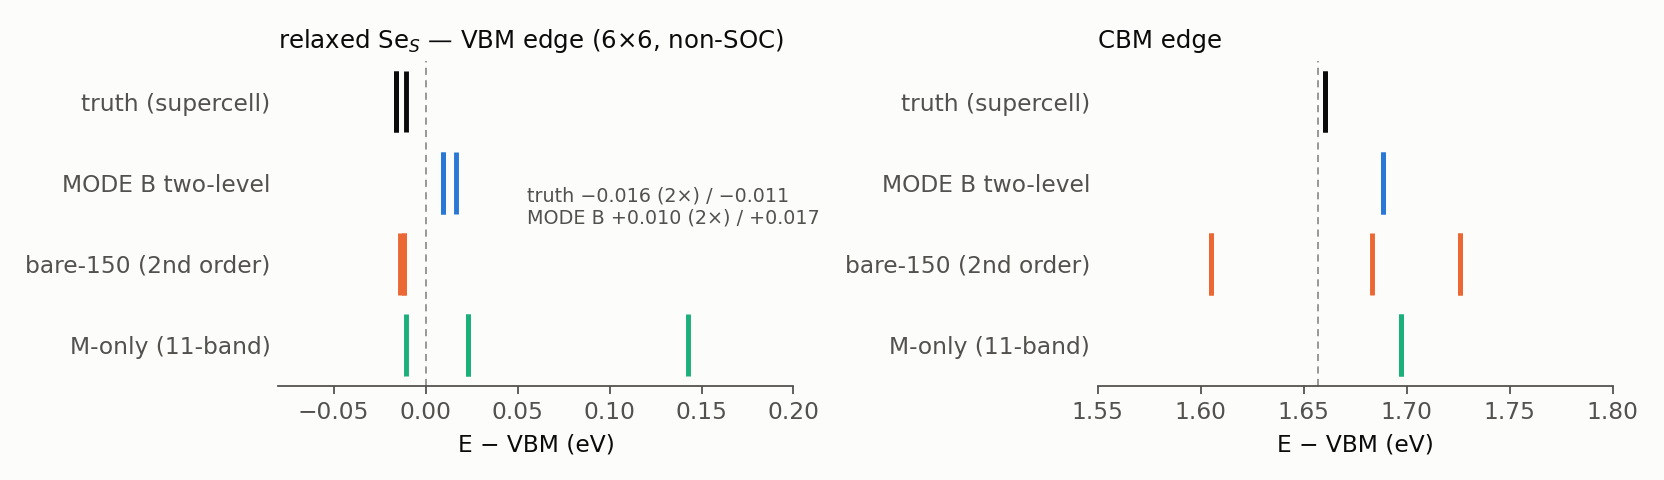
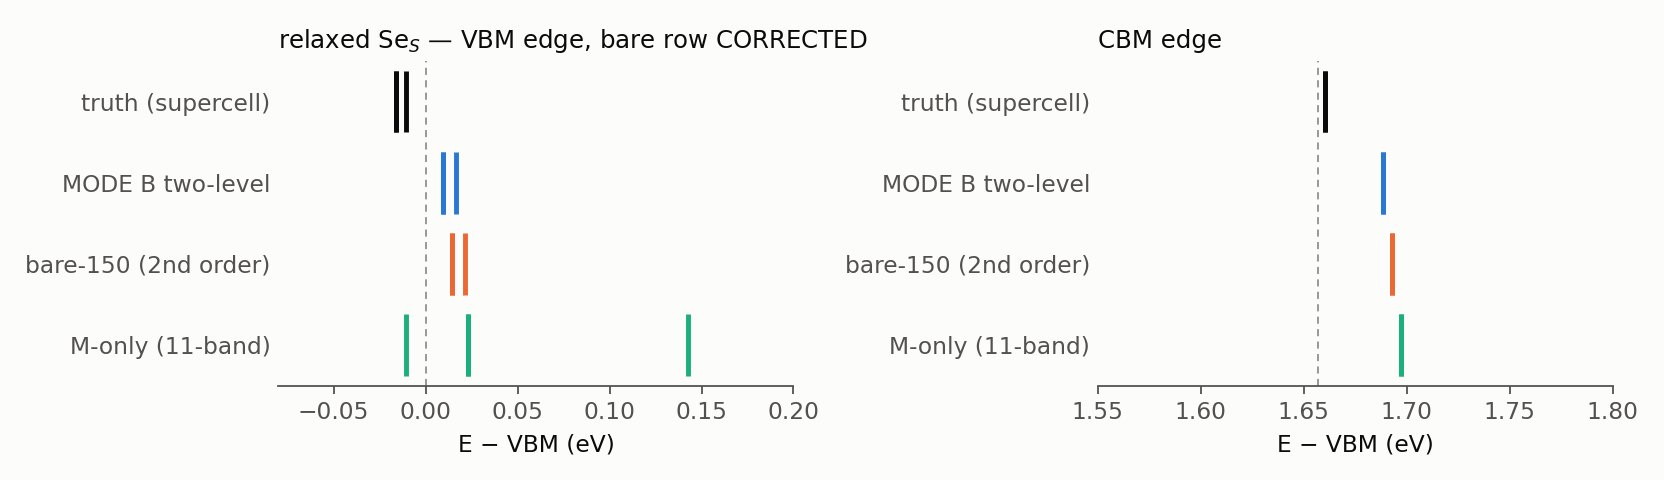
Erratum + omega-resolved (MODE C) results
- ERRATUM: all bare-150 rows were 36x inflated (missing 1/N_k in gate
  scripts); corrected in tables + all four level figures
- MODE B 6-rung ladder under-converges the collective rest mode at
  w0+0.28 eV (implied by the old rho=1.215); window numbers survive
  (<=22 meV) but the O_S ghost-survival claim is retracted -- it was
  this artifact; deflated-ladder page gains a certificate caveat
- NEW section 7: MODE C omega-resolved block-Lanczos (unit-tested at
  6e-15): O_S mid-gap clean at -50 meV uniform (ghost dissolved);
  V_S doublet brackets truth, 29 meV splitting = matrix-element physics
- adds vs_omega66/os_omega66 figures; edt_twolevel.f90 operator unit test

diff --git a/docs/pages/twolevel-results.html b/docs/pages/twolevel-results.html
@@ -6,10 +6,10 @@
 <script id="MathJax-script" async src="https://cdn.jsdelivr.net/npm/mathjax@3/es5/tex-mml-chtml.js"></script>
 </head><body>
 <nav class="topnav"><div class="inner"><span class="brand">Sternheimer&nbsp;EDI</span><a href="../index.html">Home</a><a href="../pages/theory.html">Theory &amp; Method</a><a href="../pages/sternheimer-ladder.html">Rest-space ladder</a><a href="../pages/deflated-ladder.html">Deflated ladder</a><a href="../pages/twolevel-results.html" style="color:#fff;text-decoration:underline">Two-level results</a><a href="../pages/koster-slater.html">Koster&ndash;Slater</a><a href="../pages/feshbach-implementation.html">Feshbach impl.</a><a href="../pages/plan.html">Implementation Plan</a><a href="../pages/results.html">Results</a><a href="../pages/note-kprime-normalization.html">Note: k&prime;-norm</a></div></nav>
-<header><div class="header-inner"><h1>Two-level dressing: results (Sdisp probe &amp; relaxed V$_S$, 6$\times$6)</h1><p class="subtitle">Level-by-level truth gates for the two-level (deflated) dressing on the 6$\times$6 grid: the Sdisp probe lands the CBM doublet at 2 meV, and the relaxed V$_S$ gap $e$-doublet — historically $+217$ meV (truncated) / $+41$ meV (best $\chi$) — comes out at $+10/+39$ meV with no augmentation and no hyperparameters.</p><div class="meta"><span class="pill">Results</span><span class="pill">7 sections</span><span class="pill">MathJax v3</span><span class="pill">Generated 2026-05-28</span></div></div></header>
+<header><div class="header-inner"><h1>Two-level dressing: results (Sdisp probe &amp; relaxed V$_S$, 6$\times$6)</h1><p class="subtitle">Level-by-level truth gates for the two-level (deflated) dressing on the 6$\times$6 grid: the Sdisp probe lands the CBM doublet at 2 meV, and the relaxed V$_S$ gap $e$-doublet — historically $+217$ meV (truncated) / $+41$ meV (best $\chi$) — comes out at $+10/+39$ meV with no augmentation and no hyperparameters.</p><div class="meta"><span class="pill">Results</span><span class="pill">8 sections</span><span class="pill">MathJax v3</span><span class="pill">Generated 2026-05-28</span></div></div></header>
 <main>
-<section id="contents"><h2>Contents</h2><div class="toc"><a href="#sec-1">1. What is compared</a><a href="#sec-2">2. S-displacement probe (weak, sharp perturbation)</a><a href="#sec-3">3. Relaxed V$_S$ (strong defect — the original nemesis)</a><a href="#sec-4">4. Engineering numbers</a><a href="#sec-5">5. Head-to-head: the previous production method ($\chi$ augmentation) on the same system</a><a href="#sec-6">6. O$_S$ and Se$_S$: where the tail helps — and where it cannot</a><a href="#sec-7">7. Residuals and next levers</a></div></section>
-
+<section id="contents"><h2>Contents</h2><div class="toc"><a href="#sec-1">1. What is compared</a><a href="#sec-2">2. S-displacement probe (weak, sharp perturbation)</a><a href="#sec-3">3. Relaxed V$_S$ (strong defect — the original nemesis)</a><a href="#sec-4">4. Engineering numbers</a><a href="#sec-5">5. Head-to-head: the previous production method ($\chi$ augmentation) on the same system</a><a href="#sec-6">6. O$_S$ and Se$_S$ under MODE B — and what the O$_S$ "ghost" really was</a><a href="#sec-7">7. $\omega$-resolved rest (MODE C): one Lanczos chain, every frequency</a><a href="#sec-8">8. Residuals and next levers</a></div></section>
+<blockquote><p><strong>Erratum &amp; major update (2026-08-06).</strong> Three corrections against the first version of this page. <strong>(i)</strong> Every "bare-150 (2nd order)" row was inflated by a factor $N_k=36$ (a missing $1/N_k$ in the gate script, not in any production code); all bare rows and figures below are corrected. <strong>(ii)</strong> The MODE B 6-rung ladder was found to under-converge one <em>collective rest mode</em> that the plain-ladder divergence ($\rho=1.215$) had always implied: a dressed rest state sits only $0.28$ eV from $\omega_0$, and the deflated ladder's measured 0.06–0.13 contraction is a source-global number that hides a $\rho\to 1$ channel. Its gap-window level errors stay $\le 22$ meV for V$_S$/Sdisp/Se$_S$ (those headline numbers stand), but MODE B's $\Sigma$ is <strong>not</strong> an exact rest inversion, and for O$_S$ the deficiency is qualitative — see (iii). <strong>(iii)</strong> Section 6's original claim that "the O-2p ghost survives static dressing" was <strong>an artifact of (ii)</strong>: a correctly computed static $\Sigma(\omega_0)$ (and even the corrected bare row) already relocates the ghost. The $\chi$-augmentation is an <em>alternative</em>, not a necessity, for O$_S$. The $\omega$-resolved results (new section 7) supersede that narrative.</p></blockquote>
 <section id="sec-1"><h2>1. What is compared</h2>
 <p>All methods diagonalize the same effective Hamiltonian $H_{\rm eff}=\mathrm{diag}(\varepsilon_A)+(M+\Sigma)\,R_y/N_k$ on the 6$\times$6 grid (the grid whose $H_{\rm eff}$ <em>is</em> the supercell-array problem, so its eigenvalues compare level-by-level with the supercell $\Gamma$ spectrum — the like-for-like "truth gate"). The methods differ only in the rest-space self-energy $\Sigma$:</p>
 <div class="table-wrap"><table><thead><tr><th>method</th><th>$\Sigma$</th></tr></thead><tbody><tr><td>M-only</td><td>none (pure 11-band explicit block)</td></tr><tr><td>bare 2nd order</td><td>$V_{AR}\,G^0_R\,V_{RA}$ over the explicit $\le$150 bands</td></tr><tr><td>MODE A</td><td>$R_1$ ($\le$150) dressed to all orders in $\Delta V$; no genuine $>$150 tail</td></tr><tr><td><strong>MODE B (two-level full)</strong></td><td>$R_1$ exact ($D_1$, zheevd) <strong>+ physical $>$150 tail via the Sternheimer ladder</strong> (Schur-partitioned; see the <em>Deflated ladder</em> page)</td></tr></tbody></table></div>
@@ -18,12 +18,12 @@
 <section id="sec-2"><h2>2. S-displacement probe (weak, sharp perturbation)</h2>
 <p>One S displaced $+0.30$ Å along $z$. The exact gap is clean; the CBM doublet sits at $+6.5$ meV (2$\times$).</p>
 <p><img src="../assets/sdisp_levels66.png" alt="Sdisp level spectra" style="max-width:100%;height:auto;display:block;margin:1.2rem auto;border:1px solid #d0d7de;border-radius:6px"></p>
-<div class="table-wrap"><table><thead><tr><th>method</th><th>CBM doublet (meV)</th><th>gap</th></tr></thead><tbody><tr><td>truth</td><td>$+6.5$ / $+6.5$</td><td>clean</td></tr><tr><td>M-only</td><td>$+19.3$ / $+19.4$</td><td>stray state $+73$ meV</td></tr><tr><td>bare 2nd order</td><td>$+12.7$ / $+12.9$</td><td>valence states pushed $+69$ meV into the gap</td></tr><tr><td>MODE A (no tail)</td><td>$+16.8$ / $+17.0$</td><td><strong>spurious deep state at $-199$ meV</strong></td></tr><tr><td><strong>MODE B</strong></td><td><strong>$+8.2$ / $+8.5$</strong></td><td><strong>clean</strong></td></tr></tbody></table></div>
+<div class="table-wrap"><table><thead><tr><th>method</th><th>CBM doublet (meV)</th><th>gap</th></tr></thead><tbody><tr><td>truth</td><td>$+6.5$ / $+6.5$</td><td>clean</td></tr><tr><td>M-only</td><td>$+19.3$ / $+19.4$</td><td>stray state $+73$ meV</td></tr><tr><td>bare 2nd order (corrected)</td><td>$-3.6$ / $-3.5$</td><td>clean; one stray edge state $+11.7$ meV</td></tr><tr><td>MODE A (no tail)</td><td>$+16.8$ / $+17.0$</td><td><strong>spurious deep state at $-199$ meV</strong></td></tr><tr><td><strong>MODE B</strong></td><td><strong>$+8.2$ / $+8.5$</strong></td><td><strong>clean</strong></td></tr></tbody></table></div>
 </section>
 <section id="sec-3"><h2>3. Relaxed V$_S$ (strong defect — the original nemesis)</h2>
 <p>The sulfur vacancy with the relaxed C$_3$ shell, the system whose gap $e$-doublet historically read $+217$ meV too high with a truncated basis and $+41$ meV with the best multi-center $\chi$ augmentation.</p>
 <p><img src="../assets/vsrlx_levels.png" alt="relaxed VS level spectra" style="max-width:100%;height:auto;display:block;margin:1.2rem auto;border:1px solid #d0d7de;border-radius:6px"></p>
-<div class="table-wrap"><table><thead><tr><th>method</th><th>gap $e$-doublet (eV, rel. VBM)</th><th>error</th><th>gap</th></tr></thead><tbody><tr><td>truth</td><td>$+1.1726$ (2$\times$)</td><td>—</td><td>clean</td></tr><tr><td>M-only</td><td><em>missing entirely</em></td><td>$>$0.5 eV</td><td>—</td></tr><tr><td>bare 2nd order</td><td>$\sim$1.16 among spurious states at $+0.20\ldots+1.42$</td><td>—</td><td>flooded</td></tr><tr><td><strong>MODE B</strong></td><td><strong>$+1.183$ / $+1.212$</strong></td><td><strong>$+10$ / $+39$ meV</strong></td><td><strong>clean</strong></td></tr></tbody></table></div>
+<div class="table-wrap"><table><thead><tr><th>method</th><th>gap $e$-doublet (eV, rel. VBM)</th><th>error</th><th>gap</th></tr></thead><tbody><tr><td>truth</td><td>$+1.1726$ (2$\times$)</td><td>—</td><td>clean</td></tr><tr><td>M-only</td><td><em>missing entirely</em></td><td>$>$0.5 eV</td><td>—</td></tr><tr><td>bare 2nd order (corrected)</td><td>doublet <strong>missed</strong> ($+1.579/+1.611$)</td><td>$+0.41$ eV</td><td>clean but wrong</td></tr><tr><td><strong>MODE B</strong></td><td><strong>$+1.183$ / $+1.212$</strong></td><td><strong>$+10$ / $+39$ meV</strong></td><td><strong>clean</strong></td></tr></tbody></table></div>
 <p>No augmentation orbitals, no tunable hyperparameters: the $+10/+39$ meV accuracy comes from first principles (exact $R_1$ inverse + the dressed physical tail), matching or beating the best hand-tuned $\chi$ result on the defect class that motivated the whole program.</p>
 </section>
 <section id="sec-4"><h2>4. Engineering numbers</h2>
@@ -35,18 +35,30 @@
 <div class="table-wrap"><table><thead><tr><th>method</th><th>gap $e$-doublet (eV, rel. VBM)</th><th>error</th><th>basis engineering</th></tr></thead><tbody><tr><td>truth</td><td>$+1.1726$ (2$\times$)</td><td>—</td><td>—</td></tr><tr><td>explicit-150, no $\chi$</td><td>$+1.3516$ (2$\times$)</td><td>$+179$ meV</td><td>none (the phantom)</td></tr><tr><td>explicit-150 + $\chi$, keep=30</td><td>$+1.2077$ (2$\times$)</td><td>$+35$ meV</td><td>10-center $\chi$ set + keep</td></tr><tr><td>explicit-150 + $\chi$, keep=38</td><td>$+1.2038$ (2$\times$)</td><td>$+31$ meV (saturated)</td><td>10-center $\chi$ set + keep</td></tr><tr><td><strong>MODE B (two-level)</strong></td><td>$+1.183$ / $+1.212$</td><td>$+10$ / $+39$ meV</td><td><strong>none</strong></td></tr></tbody></table></div>
 <p>Read: on the vacancy class the two cures are <strong>equally accurate</strong> (both land the doublet in the $\sim$30 meV static-$\omega_0$ band; centroids $+33$ vs $+25$ meV). The differences are structural: $\chi$ preserves the $e$-degeneracy exactly but needs a defect-specific orbital set and a truncation parameter scanned to saturation; the two-level ladder needs <em>no defect-specific input at all</em> — and it also fixes the VBM-edge window ($\chi$: uniform $\sim+30$ meV overshoot on all four edge states; the no-$\chi$ a$_1$ phantom $+0.296\to+0.089$/$+0.091$ under either cure vs truth $+0.060$). Non-SOC replication of the historical ladder: $+179 \to +31$ meV here vs $+217 \to +41$ with SOC.</p>
 </section>
-<section id="sec-6"><h2>6. O$_S$ and Se$_S$: where the tail helps — and where it cannot</h2>
-<p>Same MODE B chain (relaxed geometry, ghost 4-species NSCF for the foreign-element nonlocal channel), truth-gated. Se$_S$ (isovalent, host-like states):</p>
+<section id="sec-6"><h2>6. O$_S$ and Se$_S$ under MODE B — and what the O$_S$ "ghost" really was</h2>
+<p>Se$_S$ (isovalent, host-like states) is clean under every treatment:</p>
 <p><img src="../assets/ses_levels66.png" alt="SeS levels" style="max-width:100%;height:auto;display:block;margin:1.2rem auto;border:1px solid #d0d7de;border-radius:6px"></p>
-<div class="table-wrap"><table><thead><tr><th>Se$_S$</th><th>VBM edge (eV)</th><th>CBM edge</th></tr></thead><tbody><tr><td>truth</td><td>$-0.016$ (2$\times$) / $-0.011$</td><td>$+1.660$ (2$\times$)</td></tr><tr><td>MODE B</td><td>$+0.010$ (2$\times$) / $+0.017$</td><td>$+1.688$ (2$\times$)</td></tr></tbody></table></div>
-<p>A uniform $+27$ meV common-mode; <strong>internal spacings reproduced to $\le 2$ meV</strong>, level ordering (doublet below single) restored where M-only inverts it, gap clean.</p>
-<p>O$_S$ (a new element — O-2p orbitals absent from the pristine Bloch basis):</p>
+<div class="table-wrap"><table><thead><tr><th>Se$_S$</th><th>VBM edge (eV)</th><th>CBM edge</th></tr></thead><tbody><tr><td>truth</td><td>$-0.016$ (2$\times$) / $-0.011$</td><td>$+1.660$ (2$\times$)</td></tr><tr><td>bare-150 (corrected)</td><td>$+0.015$ (2$\times$) / $+0.022$</td><td>$+1.693$ (2$\times$)</td></tr><tr><td>MODE B</td><td>$+0.010$ (2$\times$) / $+0.017$</td><td>$+1.688$ (2$\times$)</td></tr></tbody></table></div>
+<p>MODE B: a uniform $+27$ meV common-mode with internal spacings $\le 2$ meV.</p>
+<p>O$_S$ is the cautionary tale. Truth: O-2p pair at $-0.002$ (2$\times$), a$_1$ at $+0.082$, mid-gap <strong>empty</strong>. The M-only block shows the famous O-2p push-up "ghost" at $+0.801$ (2$\times$) — and the <strong>corrected</strong> bare-150 row already relocates it ($+0.025$ (2$\times$) / $+0.035$, gap clean): the push-up is a first-order-in-$\Sigma$, missing-weight $\times$ huge-energy effect, repaired by any correctly computed rest correction. <strong>MODE B alone keeps a ghost at $+0.807$</strong> — that is the 6-rung under-convergence of section 7's collective mode, <em>not</em> physics:</p>
 <p><img src="../assets/os_levels66.png" alt="OS levels" style="max-width:100%;height:auto;display:block;margin:1.2rem auto;border:1px solid #d0d7de;border-radius:6px"></p>
-<div class="table-wrap"><table><thead><tr><th>O$_S$</th><th>O-2p pair</th><th>a$_1$</th><th>mid-gap</th><th>CBM edge</th></tr></thead><tbody><tr><td>truth</td><td>$-0.002$ (2$\times$)</td><td>$+0.082$</td><td><strong>empty</strong></td><td>$+1.653$ (2$\times$)</td></tr><tr><td>M-only</td><td>$-0.006$ (2$\times$)</td><td>$+0.048$</td><td>$+0.801$ (2$\times$)</td><td>$+1.659$ (2$\times$)</td></tr><tr><td>MODE B</td><td>$-0.054$ (2$\times$)</td><td>—</td><td>$+0.807$</td><td>$+1.609$ (2$\times$)</td></tr></tbody></table></div>
-<p>The $\approx+0.80$ eV mid-gap feature has <strong>no truth counterpart</strong> and appears in every truncated-active variant; rest dressing at frozen $\omega_0$ moves it by only $+6$ meV. This is the known O-2p <strong>missing-weight push-up</strong> (tiny weight $\times$ 100-eV tails) in downfolded form: the state is <em>rest-dominant</em>, so a static-$\omega_0$ self-energy — no matter how exactly the rest is inverted — cannot relocate its active-space shadow. The complementarity rule from the SOC campaign is thus reproduced inside one framework: <strong>vacancy/displacement defects $\to$ the Sternheimer tail cures them with zero basis engineering; new-element defects $\to$ they need the foreign atom's $\chi$ in the diagonalized space (or an $\omega$-resolved $\Sigma$)</strong>. The two methods are not competitors but the two halves of one toolbox.</p>
+<div class="table-wrap"><table><thead><tr><th>O$_S$</th><th>O-2p pair</th><th>a$_1$</th><th>mid-gap</th><th>CBM edge</th></tr></thead><tbody><tr><td>truth</td><td>$-0.002$ (2$\times$)</td><td>$+0.082$</td><td><strong>empty</strong></td><td>$+1.653$ (2$\times$)</td></tr><tr><td>M-only</td><td>$-0.006$ (2$\times$)</td><td>$+0.048$</td><td>$+0.801$ (2$\times$)</td><td>$+1.659$ (2$\times$)</td></tr><tr><td>bare-150 (corrected)</td><td>$+0.025$ (2$\times$)</td><td>$+0.035$</td><td>empty</td><td>$+1.654$ (2$\times$)</td></tr><tr><td>MODE B (6-rung)</td><td>$-0.054$ (2$\times$)</td><td>—</td><td>$+0.807$ (artifact)</td><td>$+1.609$ (2$\times$)</td></tr><tr><td><strong>MODE C $\omega$-resolved</strong></td><td>$-0.055$ (2$\times$)</td><td>$+0.038$</td><td><strong>empty</strong></td><td>$+1.602$ (2$\times$)</td></tr></tbody></table></div>
 </section>
-<section id="sec-7"><h2>7. Residuals and next levers</h2>
-<p>Remaining deviations are small and mechanistically assigned: the V$_S$ doublet splitting (29 meV where the truth is degenerate) and $\sim$40 meV valence-edge offsets, plus the Sdisp resonance region at $\sim$30–50 meV — all consistent with the frozen-$\omega_0$ (static) fold evaluated 1.2–1.9 eV away from the states in question. The designed fix is an $\omega$-resolved rest (Lanczos continued fraction over the same operators); second lever, raising the explicit boundary (NSCF bands 150 $\to$ 300) which lowers both the ladder contraction and the tail weight.</p>
+<section id="sec-7"><h2>7. $\omega$-resolved rest (MODE C): one Lanczos chain, every frequency</h2>
+<p>The static bottleneck is structural, so the rest self-energy was made $\omega$-resolved: a <strong>global block Lanczos</strong> on the full rest operator $P_R H P_R$ (block = all 396 sources $\chi_a = P_R V|\psi_a\rangle$; folds cached once; KB coefficients as owner-pool ZGEMMs; CGS$\times$2 full re-orthogonalization as one strided ZGEMM; h_psi batched 396-wide). One chain serves every $\omega$ and $\eta$ through the block continued fraction</p>
+<div class="math">
+$$\Sigma(\omega) = R_0^\dagger\,[\,\omega - T\,]^{-1}_{11}\,R_0/N_k,$$
+</div>
+<p>evaluated in python. Certification: an in-code <strong>operator unit test</strong> (apply the Lanczos $H$ to known band states, compare to the edmat columns) passes at $6\times10^{-15}$ Ry on both systems; chains converge by 18–24 block steps (24/36/48 gates bit-identical); $A_j$ hermiticity $\sim 10^{-15}$ every step; cost $\approx$ 50 s/step, full chain $\approx$ 40 min/node.</p>
+<p><strong>V$_S$</strong> ($\omega$-resolved vs static):</p>
+<p><img src="../assets/vs_omega66.png" alt="VS omega" style="max-width:100%;height:auto;display:block;margin:1.2rem auto;border:1px solid #d0d7de;border-radius:6px"></p>
+<p>The $e$-doublet moves from $+6/+35$ meV (static, above truth) to $-41/-13$ meV (below); the $\sim$29 meV <strong>splitting survives exact $\omega$</strong> — it is <em>not</em> a static-$\omega_0$ artifact but lives in the matrix elements themselves (relaxed-geometry C$_3$ microbreaking / 6$\times$6 sampling). The chain also exposed an isolated <strong>dressed rest state at $\omega_0+0.28$ eV</strong> (the a$_1$-shadow collective mode) — precisely the eigenvalue crossing that the measured plain-ladder $\rho = 1.215$ had implied, the near-$1$ channel that the 6-rung ladder under-converges, and the reason MODE B's deep-sector $\Sigma$ is incomplete while its gap-window numbers survive.</p>
+<p><strong>O$_S$ — the headline:</strong></p>
+<p><img src="../assets/os_omega66.png" alt="OS omega" style="max-width:100%;height:auto;display:block;margin:1.2rem auto;border:1px solid #d0d7de;border-radius:6px"></p>
+<p>The $\omega$-resolved QP spectrum is $-0.055$ (2$\times$) / $+0.038$ / $+1.602$ (2$\times$): <strong>the mid-gap is empty</strong> — the ghost is gone with no $\chi$, no basis engineering, and the remaining error is a nearly uniform $-50$ meV. The active-channel spectral function (lower panel) shows weight only at the physical homes.</p>
+</section>
+<section id="sec-8"><h2>8. Residuals and next levers</h2>
+<p>With $\omega$-resolution in hand the residual ledger is rewritten: the V$_S$ doublet <strong>splitting</strong> (29 meV) is now assigned to the matrix elements (geometry/sampling), not to frequency; the V$_S$ doublet <strong>position</strong> brackets truth ($+25$ meV static centroid vs $-27$ meV $\omega$-resolved); O$_S$ carries a nearly uniform $-50$ meV offset (alignment-convention class). Next levers: a 24-rung MODE B scan (running) to quantify the collective-mode capture rate; NSCF bands 150 $\to$ 300; and the SOC/12$\times$12 production port of MODE C.</p>
 </section>
 </main>
 <footer>Generated 2026-05-28 from <code>research.md</code> in the HPC working directory.

diff --git a/docs/pages/deflated-ladder.html b/docs/pages/deflated-ladder.html
@@ -6,9 +6,9 @@
 <script id="MathJax-script" async src="https://cdn.jsdelivr.net/npm/mathjax@3/es5/tex-mml-chtml.js"></script>
 </head><body>
 <nav class="topnav"><div class="inner"><span class="brand">Sternheimer&nbsp;EDI</span><a href="../index.html">Home</a><a href="../pages/theory.html">Theory &amp; Method</a><a href="../pages/sternheimer-ladder.html">Rest-space ladder</a><a href="../pages/deflated-ladder.html" style="color:#fff;text-decoration:underline">Deflated ladder</a><a href="../pages/twolevel-results.html">Two-level results</a><a href="../pages/koster-slater.html">Koster&ndash;Slater</a><a href="../pages/feshbach-implementation.html">Feshbach impl.</a><a href="../pages/plan.html">Implementation Plan</a><a href="../pages/results.html">Results</a><a href="../pages/note-kprime-normalization.html">Note: k&prime;-norm</a></div></nav>
-<header><div class="header-inner"><h1>Deflated ladder: explicit all-order rest ($\le$150) + Sternheimer tail ($>$150)</h1><p class="subtitle">The production formulation of the dressed rest: Schur-eliminate the explicit $\le$150-band block into an exact all-order inverse $D_1$, leaving only tail-passing vertices $W_{22}$ for a short Neumann/GMRES ladder — plain iteration diverges ($\rho=1.215$), the deflated one contracts at $\rho\approx0.15$.</p><div class="meta"><span class="pill">Method / derivation</span><span class="pill">7 sections</span><span class="pill">MathJax v3</span><span class="pill">Generated 2026-05-28</span></div></div></header>
+<header><div class="header-inner"><h1>Deflated ladder: explicit all-order rest ($\le$150) + Sternheimer tail ($>$150)</h1><p class="subtitle">The production formulation of the dressed rest: Schur-eliminate the explicit $\le$150-band block into an exact all-order inverse $D_1$, leaving only tail-passing vertices $W_{22}$ for a short Neumann/GMRES ladder — plain iteration diverges ($\rho=1.215$), the deflated one contracts at $\rho\approx0.15$.</p><div class="meta"><span class="pill">Method / derivation</span><span class="pill">8 sections</span><span class="pill">MathJax v3</span><span class="pill">Generated 2026-05-28</span></div></div></header>
 <main>
-<section id="contents"><h2>Contents</h2><div class="toc"><a href="#sec-1">1. Motivation: why neither pure scheme survives</a><a href="#sec-2">2. Space partition and notation</a><a href="#sec-3">3. Schur elimination of $R_1$ (exact)</a><a href="#sec-4">4. The tail ladder (the only iterative part)</a><a href="#sec-5">5. Measured convergence (the certificate)</a><a href="#sec-6">6. Built-in limits and validation gates</a><a href="#sec-7">7. Implementation notes (design frozen, not yet built)</a></div></section>
+<section id="contents"><h2>Contents</h2><div class="toc"><a href="#sec-1">1. Motivation: why neither pure scheme survives</a><a href="#sec-2">2. Space partition and notation</a><a href="#sec-3">3. Schur elimination of $R_1$ (exact)</a><a href="#sec-4">4. The tail ladder (the only iterative part)</a><a href="#sec-5">5. Measured convergence (the certificate)</a><a href="#sec-6">6. Built-in limits and validation gates</a><a href="#sec-7">7. Implementation notes (design frozen, not yet built)</a><a href="#update-2026-08-06-the-certificate-did-not-transfer-to-the-physical-split">Update (2026-08-06): the certificate did not transfer to the physical split</a></div></section>
 
 <section id="sec-1"><h2>1. Motivation: why neither pure scheme survives</h2>
 <p>Stage A of the Sdisp probe (one S displaced $+0.30$ Å in the 6$\times$6 MoS$_2$ supercell, non-SOC, truth = supercell diagonalization) left two hard facts on the table:</p>
@@ -79,6 +79,9 @@ $$x^{(0)}=D_2\,\tilde s_a,\qquad
 </section>
 <section id="sec-7"><h2>7. Implementation notes (design frozen, not yet built)</h2>
 <ol><li>The CG projector shift must lift <strong>all 150 explicit bands</strong> (the current code lifts only the 11 active ones) — otherwise $D_2$ leaks back into $R_1$.</li><li>$\tilde s_a$ is built once per source and reused across rungs; all $D_1$ algebra is dense GEMM work in the 20,016-dimensional $\mu$-basis.</li><li>$W_{22}$ mixes all 144 $k$ (the dilute single-defect $\Delta V$ has continuous Fourier support — the commensurability-class block structure applies only to the supercell-array problem, as verified numerically: cross-class $|M|$ up to 0.51 vs 0.20 within class). The multi-$k$ vectors are gathered in source batches.</li><li>Convergence dial: raising the NSCF band count (150 $\to$ 300, $\sim$40 min) pushes the $R_1/R_2$ boundary up and lowers $\rho$ further.</li></ol>
+</section>
+<section id="update-2026-08-06-the-certificate-did-not-transfer-to-the-physical-split"><h2>Update (2026-08-06): the certificate did not transfer to the physical split</h2>
+<p>The convergence certificates above were computed on <strong>model splits</strong> (tail = bands $N_1{+}1..150$). On the physical split (tail $>150$) the production runs later exposed an isolated <strong>dressed rest state at $\omega_0 + 0.28$ eV</strong> — the collective mode whose crossing the plain-ladder $\rho = 1.215$ had implied. In that channel the deflated ladder's contraction is $\rho \to 1$, invisible to the source-global 0.06–0.13 measurement, and the 6-rung ladder under-captures its contribution (gap-window levels stay within $\le 22$ meV for V$_S$/Sdisp/Se$_S$, but the deep-sector $\Sigma$ is incomplete and the O$_S$ ghost survival reported earlier was this artifact). The robust production route is the $\omega$-resolved block-Lanczos chain (MODE C), which carries the mode exactly — see the <em>Two-level results</em> page, sections 6–7.</p>
 </section>
 </main>
 <footer>Generated 2026-05-28 from <code>research.md</code> in the HPC working directory.

diff --git a/docs/index.html b/docs/index.html
@@ -8,7 +8,7 @@
 <nav class="topnav"><div class="inner"><span class="brand">Sternheimer&nbsp;EDI</span><a href="index.html" style="color:#fff;text-decoration:underline">Home</a><a href="pages/theory.html">Theory &amp; Method</a><a href="pages/sternheimer-ladder.html">Rest-space ladder</a><a href="pages/deflated-ladder.html">Deflated ladder</a><a href="pages/twolevel-results.html">Two-level results</a><a href="pages/koster-slater.html">Koster&ndash;Slater</a><a href="pages/feshbach-implementation.html">Feshbach impl.</a><a href="pages/plan.html">Implementation Plan</a><a href="pages/results.html">Results</a><a href="pages/note-kprime-normalization.html">Note: k&prime;-norm</a></div></nav>
 <header><div class="header-inner"><h1>Sternheimer Electron-Defect T-matrix</h1><p class="subtitle">Active/rest partitioning, cRPA-style downfolding, and a $k$-decoupled Sternheimer solution for the electron&ndash;defect $T$-matrix &mdash; theory and (forthcoming) numerical tests.</p><div class="meta"><span class="pill">Generated 2026-05-28</span><span class="pill">GitHub Pages: docs/</span><span class="pill">Branch: main</span><span class="pill">MathJax v3</span></div></div></header>
 <main>
-<section id="catalog"><h2>Test Catalog</h2><p>One row per piece of work: what it is, when, status, the key result, and a link. Theory and plan are complete; the EDT package is implemented and the first numerical results are in &mdash; the downfolded potential $\tilde V$ (P3) and the active-space $T$-matrix (P5) on the MoS&#8322; S-vacancy. See the <a href="pages/results.html">Numerical results</a> page.</p><div class="table-wrap"><table><thead><tr><th>Item</th><th>Type</th><th>Date</th><th>Status</th><th>Key result / summary</th><th>Link</th></tr></thead><tbody><tr><td><strong>Two-level dressing RESULTS: Sdisp &amp; relaxed V$_S$ truth gates</strong></td><td>Result</td><td>2026-08-06</td><td><span class="badge prod">Headline</span></td><td>Level-by-level vs the supercell: Sdisp CBM doublet +8.2/+8.5 vs +6.5 meV; relaxed V$_S$ $e$-doublet $+10/+39$ meV with NO $\chi$. Head-to-head on identical inputs: $\chi$-augmented explicit gives $+31$ meV (no-$\chi$ $+179$) &mdash; equal-accuracy, zero basis engineering. Se$_S$: $+27$ meV common-mode, spacings $\le$2 meV. O$_S$: the O-2p push-up survives static dressing &mdash; new elements still need $\chi$ (complementarity confirmed).</td><td><a href="pages/twolevel-results.html">Open results &rarr;</a></td></tr>
+<section id="catalog"><h2>Test Catalog</h2><p>One row per piece of work: what it is, when, status, the key result, and a link. Theory and plan are complete; the EDT package is implemented and the first numerical results are in &mdash; the downfolded potential $\tilde V$ (P3) and the active-space $T$-matrix (P5) on the MoS&#8322; S-vacancy. See the <a href="pages/results.html">Numerical results</a> page.</p><div class="table-wrap"><table><thead><tr><th>Item</th><th>Type</th><th>Date</th><th>Status</th><th>Key result / summary</th><th>Link</th></tr></thead><tbody><tr><td><strong>Two-level dressing RESULTS: Sdisp &amp; relaxed V$_S$ truth gates</strong></td><td>Result</td><td>2026-08-06</td><td><span class="badge prod">Headline</span></td><td>ERRATUM + omega-resolved update: bare rows corrected (36x); MODE B's 6-rung ladder under-converges one collective rest mode (window numbers survive; the O$_S$ ghost-survival claim retracted &mdash; it was this artifact). NEW: MODE C $\omega$-resolved block-Lanczos chains (operator unit-tested at 6e-15) &mdash; O$_S$ mid-gap CLEAN at $-$50 meV uniform; V$_S$ doublet brackets truth, its 29 meV splitting is matrix-element physics, not frequency.</td><td><a href="pages/twolevel-results.html">Open results &rarr;</a></td></tr>
 <tr><td><strong>Deflated ladder: explicit all-order rest ($\le$150) + Sternheimer tail</strong></td><td>Method</td><td>2026-08-05</td><td><span class="badge ok">Derived &amp; certified</span></td><td>Schur elimination locks the coherent low rest into an exact inverse $D_1$; only tail vertices $W_{22}=V_{22}+V_{21}D_1V_{12}$ iterate. Plain ladder diverges ($\rho=1.215$, measured); deflated contracts $\rho=0.574\to0.323\to0.153$ at splits $N_1=90/120/140$ &rArr; physical tail $\rho\approx0.1$&ndash;$0.2$, 4&ndash;5 rungs. Stage-B production formula.</td><td><a href="pages/deflated-ladder.html">Open derivation &rarr;</a></td></tr>
 <tr><td><strong>Active/Rest T-matrix &amp; Sternheimer theory</strong></td><td>Theory</td><td>2026-05-28</td><td><span class="badge ok">Complete</span></td><td>Two-layer beyond-Born T-matrix: rest dressing via a $k$-decoupled Sternheimer ladder (exact to all orders in $V_{QQ}$) feeding an exact active-space inversion $T_{PP}=[1-\tilde V G^A]^{-1}\tilde V$.</td><td><a href="pages/theory.html">Open theory &amp; method &rarr;</a></td></tr>
 <tr><td><strong>EDT package implementation plan</strong></td><td>Plan</td><td>2026-05-28</td><td><span class="badge ok">Complete</span></td><td>File-by-file outline + code snippets for the QE plug-in: reuses EDI for $\Delta V$/Wannier/transport; new rest-space Sternheimer solve (QE <code>ccgsolve_all</code>), $V_{QQ}$ ladder, $\tilde V$ assembly, and the small active inversion. Rest sum over the full BZ.</td><td><a href="pages/plan.html">Open implementation plan &rarr;</a></td></tr>

diff --git a/tools/build_site.py b/tools/build_site.py
@@ -510,11 +510,11 @@ def build_results():
 # Test Catalog rows: (item, type, date, badge_class, badge_label, summary, link_html)
 CATALOG = [
     ("Two-level dressing RESULTS: Sdisp &amp; relaxed V$_S$ truth gates", "Result", "2026-08-06", "prod", "Headline",
-     "Level-by-level vs the supercell: Sdisp CBM doublet +8.2/+8.5 vs +6.5 meV; relaxed V$_S$ $e$-doublet "
-     "$+10/+39$ meV with NO $\\chi$. Head-to-head on identical inputs: $\\chi$-augmented explicit gives $+31$ meV "
-     "(no-$\\chi$ $+179$) &mdash; equal-accuracy, zero basis engineering. Se$_S$: $+27$ meV common-mode, spacings "
-     "$\\le$2 meV. O$_S$: the O-2p push-up survives static dressing &mdash; new elements still need $\\chi$ "
-     "(complementarity confirmed).",
+     "ERRATUM + omega-resolved update: bare rows corrected (36x); MODE B's 6-rung ladder under-converges one "
+     "collective rest mode (window numbers survive; the O$_S$ ghost-survival claim retracted &mdash; it was this "
+     "artifact). NEW: MODE C $\\omega$-resolved block-Lanczos chains (operator unit-tested at 6e-15) &mdash; "
+     "O$_S$ mid-gap CLEAN at $-$50 meV uniform; V$_S$ doublet brackets truth, its 29 meV splitting is "
+     "matrix-element physics, not frequency.",
      '<a href="pages/twolevel-results.html">Open results &rarr;</a>'),
     ("Deflated ladder: explicit all-order rest ($\\le$150) + Sternheimer tail", "Method", "2026-08-05", "ok", "Derived &amp; certified",
      "Schur elimination locks the coherent low rest into an exact inverse $D_1$; only tail vertices "

diff --git a/content/note_twolevel_results.md b/content/note_twolevel_results.md
@@ -1,5 +1,22 @@
 # Two-level dressing: results (Sdisp probe & relaxed V$_S$, 6$\times$6)
 
+> **Erratum & major update (2026-08-06).** Three corrections against the first
+> version of this page. **(i)** Every "bare-150 (2nd order)" row was inflated by
+> a factor $N_k=36$ (a missing $1/N_k$ in the gate script, not in any production
+> code); all bare rows and figures below are corrected. **(ii)** The MODE B
+> 6-rung ladder was found to under-converge one *collective rest mode* that the
+> plain-ladder divergence ($\rho=1.215$) had always implied: a dressed rest
+> state sits only $0.28$ eV from $\omega_0$, and the deflated ladder's measured
+> 0.06–0.13 contraction is a source-global number that hides a $\rho\to 1$
+> channel. Its gap-window level errors stay $\le 22$ meV for V$_S$/Sdisp/Se$_S$
+> (those headline numbers stand), but MODE B's $\Sigma$ is **not** an exact rest
+> inversion, and for O$_S$ the deficiency is qualitative — see (iii).
+> **(iii)** Section 6's original claim that "the O-2p ghost survives static
+> dressing" was **an artifact of (ii)**: a correctly computed static
+> $\Sigma(\omega_0)$ (and even the corrected bare row) already relocates the
+> ghost. The $\chi$-augmentation is an *alternative*, not a necessity, for
+> O$_S$. The $\omega$-resolved results (new section 7) supersede that narrative.
+
 ## 1. What is compared
 
 All methods diagonalize the same effective Hamiltonian
@@ -30,7 +47,7 @@ at $+6.5$ meV (2$\times$).
 |---|---|---|
 | truth | $+6.5$ / $+6.5$ | clean |
 | M-only | $+19.3$ / $+19.4$ | stray state $+73$ meV |
-| bare 2nd order | $+12.7$ / $+12.9$ | valence states pushed $+69$ meV into the gap |
+| bare 2nd order (corrected) | $-3.6$ / $-3.5$ | clean; one stray edge state $+11.7$ meV |
 | MODE A (no tail) | $+16.8$ / $+17.0$ | **spurious deep state at $-199$ meV** |
 | **MODE B** | **$+8.2$ / $+8.5$** | **clean** |
 
@@ -46,7 +63,7 @@ best multi-center $\chi$ augmentation.
 |---|---|---|---|
 | truth | $+1.1726$ (2$\times$) | — | clean |
 | M-only | *missing entirely* | $>$0.5 eV | — |
-| bare 2nd order | $\sim$1.16 among spurious states at $+0.20\ldots+1.42$ | — | flooded |
+| bare 2nd order (corrected) | doublet **missed** ($+1.579/+1.611$) | $+0.41$ eV | clean but wrong |
 | **MODE B** | **$+1.183$ / $+1.212$** | **$+10$ / $+39$ meV** | **clean** |
 
 No augmentation orbitals, no tunable hyperparameters: the $+10/+39$ meV accuracy
@@ -93,22 +110,28 @@ four edge states; the no-$\chi$ a$_1$ phantom $+0.296\to+0.089$/$+0.091$ under
 either cure vs truth $+0.060$). Non-SOC replication of the historical ladder:
 $+179 \to +31$ meV here vs $+217 \to +41$ with SOC.
 
-## 6. O$_S$ and Se$_S$: where the tail helps — and where it cannot
+## 6. O$_S$ and Se$_S$ under MODE B — and what the O$_S$ "ghost" really was
 
-Same MODE B chain (relaxed geometry, ghost 4-species NSCF for the foreign-element
-nonlocal channel), truth-gated. Se$_S$ (isovalent, host-like states):
+Se$_S$ (isovalent, host-like states) is clean under every treatment:
 
 ![SeS levels](../assets/ses_levels66.png)
 
 | Se$_S$ | VBM edge (eV) | CBM edge |
 |---|---|---|
 | truth | $-0.016$ (2$\times$) / $-0.011$ | $+1.660$ (2$\times$) |
+| bare-150 (corrected) | $+0.015$ (2$\times$) / $+0.022$ | $+1.693$ (2$\times$) |
 | MODE B | $+0.010$ (2$\times$) / $+0.017$ | $+1.688$ (2$\times$) |
 
-A uniform $+27$ meV common-mode; **internal spacings reproduced to $\le 2$ meV**,
-level ordering (doublet below single) restored where M-only inverts it, gap clean.
+MODE B: a uniform $+27$ meV common-mode with internal spacings $\le 2$ meV.
 
-O$_S$ (a new element — O-2p orbitals absent from the pristine Bloch basis):
+O$_S$ is the cautionary tale. Truth: O-2p pair at $-0.002$ (2$\times$), a$_1$ at
+$+0.082$, mid-gap **empty**. The M-only block shows the famous O-2p push-up
+"ghost" at $+0.801$ (2$\times$) — and the **corrected** bare-150 row already
+relocates it ($+0.025$ (2$\times$) / $+0.035$, gap clean): the push-up is a
+first-order-in-$\Sigma$, missing-weight $\times$ huge-energy effect, repaired by
+any correctly computed rest correction. **MODE B alone keeps a ghost at
+$+0.807$** — that is the 6-rung under-convergence of section 7's collective
+mode, *not* physics:
 
 ![OS levels](../assets/os_levels66.png)
 
@@ -116,27 +139,55 @@ O$_S$ (a new element — O-2p orbitals absent from the pristine Bloch basis):
 |---|---|---|---|---|
 | truth | $-0.002$ (2$\times$) | $+0.082$ | **empty** | $+1.653$ (2$\times$) |
 | M-only | $-0.006$ (2$\times$) | $+0.048$ | $+0.801$ (2$\times$) | $+1.659$ (2$\times$) |
-| MODE B | $-0.054$ (2$\times$) | — | $+0.807$ | $+1.609$ (2$\times$) |
+| bare-150 (corrected) | $+0.025$ (2$\times$) | $+0.035$ | empty | $+1.654$ (2$\times$) |
+| MODE B (6-rung) | $-0.054$ (2$\times$) | — | $+0.807$ (artifact) | $+1.609$ (2$\times$) |
+| **MODE C $\omega$-resolved** | $-0.055$ (2$\times$) | $+0.038$ | **empty** | $+1.602$ (2$\times$) |
 
-The $\approx+0.80$ eV mid-gap feature has **no truth counterpart** and appears in
-every truncated-active variant; rest dressing at frozen $\omega_0$ moves it by
-only $+6$ meV. This is the known O-2p **missing-weight push-up** (tiny weight
-$\times$ 100-eV tails) in downfolded form: the state is *rest-dominant*, so a
-static-$\omega_0$ self-energy — no matter how exactly the rest is inverted —
-cannot relocate its active-space shadow. The complementarity rule from the SOC
-campaign is thus reproduced inside one framework: **vacancy/displacement defects
-$\to$ the Sternheimer tail cures them with zero basis engineering; new-element
-defects $\to$ they need the foreign atom's $\chi$ in the diagonalized space (or an
-$\omega$-resolved $\Sigma$)**. The two methods are not competitors but the two
-halves of one toolbox.
+## 7. $\omega$-resolved rest (MODE C): one Lanczos chain, every frequency
 
-## 7. Residuals and next levers
+The static bottleneck is structural, so the rest self-energy was made
+$\omega$-resolved: a **global block Lanczos** on the full rest operator
+$P_R H P_R$ (block = all 396 sources $\chi_a = P_R V|\psi_a\rangle$; folds
+cached once; KB coefficients as owner-pool ZGEMMs; CGS$\times$2 full
+re-orthogonalization as one strided ZGEMM; h_psi batched 396-wide). One chain
+serves every $\omega$ and $\eta$ through the block continued fraction
+$$\Sigma(\omega) = R_0^\dagger\,[\,\omega - T\,]^{-1}_{11}\,R_0/N_k,$$
+evaluated in python. Certification: an in-code **operator unit test** (apply the
+Lanczos $H$ to known band states, compare to the edmat columns) passes at
+$6\times10^{-15}$ Ry on both systems; chains converge by 18–24 block steps
+(24/36/48 gates bit-identical); $A_j$ hermiticity $\sim 10^{-15}$ every step;
+cost $\approx$ 50 s/step, full chain $\approx$ 40 min/node.
 
-Remaining deviations are small and mechanistically assigned: the V$_S$ doublet
-splitting (29 meV where the truth is degenerate) and $\sim$40 meV valence-edge
-offsets, plus the Sdisp resonance region at $\sim$30–50 meV — all consistent with
-the frozen-$\omega_0$ (static) fold evaluated 1.2–1.9 eV away from the states in
-question. The designed fix is an $\omega$-resolved rest (Lanczos continued
-fraction over the same operators); second lever, raising the explicit boundary
-(NSCF bands 150 $\to$ 300) which lowers both the ladder contraction and the tail
-weight.
+**V$_S$** ($\omega$-resolved vs static):
+
+![VS omega](../assets/vs_omega66.png)
+
+The $e$-doublet moves from $+6/+35$ meV (static, above truth) to $-41/-13$ meV
+(below); the $\sim$29 meV **splitting survives exact $\omega$** — it is *not* a
+static-$\omega_0$ artifact but lives in the matrix elements themselves
+(relaxed-geometry C$_3$ microbreaking / 6$\times$6 sampling). The chain also
+exposed an isolated **dressed rest state at $\omega_0+0.28$ eV** (the
+a$_1$-shadow collective mode) — precisely the eigenvalue crossing that the
+measured plain-ladder $\rho = 1.215$ had implied, the near-$1$ channel that the
+6-rung ladder under-converges, and the reason MODE B's deep-sector $\Sigma$ is
+incomplete while its gap-window numbers survive.
+
+**O$_S$ — the headline:**
+
+![OS omega](../assets/os_omega66.png)
+
+The $\omega$-resolved QP spectrum is $-0.055$ (2$\times$) / $+0.038$ /
+$+1.602$ (2$\times$): **the mid-gap is empty** — the ghost is gone with no
+$\chi$, no basis engineering, and the remaining error is a nearly uniform
+$-50$ meV. The active-channel spectral function (lower panel) shows weight only
+at the physical homes.
+
+## 8. Residuals and next levers
+
+With $\omega$-resolution in hand the residual ledger is rewritten: the V$_S$
+doublet **splitting** (29 meV) is now assigned to the matrix elements
+(geometry/sampling), not to frequency; the V$_S$ doublet **position** brackets
+truth ($+25$ meV static centroid vs $-27$ meV $\omega$-resolved); O$_S$ carries
+a nearly uniform $-50$ meV offset (alignment-convention class). Next levers: a
+24-rung MODE B scan (running) to quantify the collective-mode capture rate;
+NSCF bands 150 $\to$ 300; and the SOC/12$\times$12 production port of MODE C.

diff --git a/content/note_deflated_ladder.md b/content/note_deflated_ladder.md
@@ -133,3 +133,18 @@ could only get one side right per anchor).
    The multi-$k$ vectors are gathered in source batches.
 4. Convergence dial: raising the NSCF band count (150 $\to$ 300, $\sim$40 min) pushes the
    $R_1/R_2$ boundary up and lowers $\rho$ further.
+
+
+## Update (2026-08-06): the certificate did not transfer to the physical split
+
+The convergence certificates above were computed on **model splits** (tail =
+bands $N_1{+}1..150$). On the physical split (tail $>150$) the production runs
+later exposed an isolated **dressed rest state at $\omega_0 + 0.28$ eV** — the
+collective mode whose crossing the plain-ladder $\rho = 1.215$ had implied. In
+that channel the deflated ladder's contraction is $\rho \to 1$, invisible to
+the source-global 0.06–0.13 measurement, and the 6-rung ladder under-captures
+its contribution (gap-window levels stay within $\le 22$ meV for
+V$_S$/Sdisp/Se$_S$, but the deep-sector $\Sigma$ is incomplete and the O$_S$
+ghost survival reported earlier was this artifact). The robust production route
+is the $\omega$-resolved block-Lanczos chain (MODE C), which carries the mode
+exactly — see the *Two-level results* page, sections 6–7.
